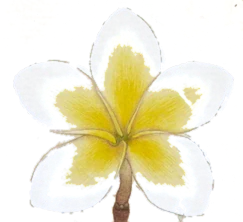
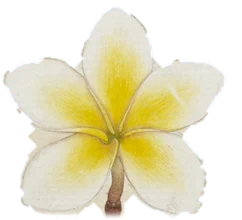
Fix hard crop lines in flower art; review every floral card by eye
- Corner flowers are now pre-rotated corner pieces: the painting's cut
  edge points diagonally out of the card corner, so no straight crop line
  can show (it showed at the top-left of the rose and peony cards)
- Any remaining side where a crop cuts through paint fades out softly
- Remove paper trapped between stems and leaves; remove aged-paper haze
  behind the peony
- Frangipani: keep white petals solid (fill inside the pencil outline)
  and trim the bare stem
- Corner flowers are drawn smaller on landscape cards so they stay clear
  of the full-width text

diff --git a/js/app.js b/js/app.js
@@ -42,20 +42,26 @@
   const PAT_OPACITY = { 1: 0.22, 2: 0.38, 3: 0.6 }; // độ đậm hoa nền: nhạt / vừa / đậm
 
   // Ảnh hoa thật đặt theo đơn vị cqmin (1% cạnh ngắn của thiệp)
-  function artImgs(list) {
-    return list.map((a) => {
+  // k: hệ số thu nhỏ (thiệp nằm ngang có chữ chạy hết bề ngang nên hoa ở góc vẽ nhỏ lại)
+  function artImgs(list, k = 1) {
+    return list.map((a0) => {
+      const a = { ...a0 };
+      ['w', 'h'].forEach((d) => { if (a[d] != null) a[d] = r2(a[d] * k); });
+      ['left', 'right', 'top', 'bottom'].forEach((d) => { if (a[d] != null && a[d] !== 0) a[d] = r2(a[d] * k); });
       const st = ['left', 'right', 'top', 'bottom'].filter((k) => a[k] != null).map((k) => `${k}:${a[k]}cqmin`);
       if (a.cx) st.push(`left:calc(50% - ${a.w / 2}cqmin)`);
       st.push(a.h ? `height:${a.h}cqmin` : `width:${a.w}cqmin`);
-      if (a.flip) st.push('transform:scaleX(-1)');
+      const tf = [a.rot ? `rotate(${a.rot}deg)` : '', a.flip ? 'scaleX(-1)' : ''].filter(Boolean).join(' ');
+      if (tf) st.push(`transform:${tf}`);
       return `<img src="art/${a.src}.webp" alt="" draggable="false" style="${st.join(';')}">`;
     }).join('');
   }
-  function bgArtHTML(kind, op) {
+  const landscapeK = (w, h) => (w && h && w / h > 1.2 ? 0.74 : 1);
+  function bgArtHTML(kind, op, w, h) {
     const art = BG_ART[kind];
     if (!art) return '';
     if (art === 'tile') return `<div class="bgart tile" style="opacity:${op}"></div>`;
-    return `<div class="bgart" style="opacity:${op}">${artImgs(art)}</div>`;
+    return `<div class="bgart" style="opacity:${op}">${artImgs(art, landscapeK(w, h))}</div>`;
   }
   const orderOf = (t) => t.order || FIELDS;
 
@@ -319,7 +325,7 @@
 
     const box = `viewBox="0 0 ${r2(w)} ${r2(h)}" width="${r2(w)}mm" height="${r2(h)}mm" preserveAspectRatio="none" aria-hidden="true"`;
     const m = Math.min(w, h);
-    const svg = (st.bgPat !== 'none' ? bgArtHTML(st.bgPat, PAT_OPACITY[st.bgLevel] || 0.32) : '') +
+    const svg = (st.bgPat !== 'none' ? bgArtHTML(st.bgPat, PAT_OPACITY[st.bgLevel] || 0.38, w, h) : '') +
       (deco ? `<svg class="deco" ${box}>${t.deco(w, h, m, th)}</svg>` : '') +
       (deco && t.art ? `<div class="art-over">${artImgs(t.art)}</div>` : '');
     const ct = contourMm(st, w, h);

diff --git a/js/templates.js b/js/templates.js
@@ -49,9 +49,10 @@
 
   /* Tranh hoa thật — trích từ tranh thực vật cổ (phạm vi công cộng), xem art/CREDITS.md.
    * Vị trí/kích thước tính theo cạnh ngắn của thiệp (1 = 1% cạnh ngắn); w = rộng, h = cao. */
+  // Hoa ở góc dùng ảnh đã xoay sẵn (rose-tl, rose-br...): chỗ cắt của tranh nằm đúng góc thiệp nên không lộ đường cắt
   const BG_ART = {
-    hong: [{ src: 'rose-heads', right: -18, bottom: -12, w: 82 }, { src: 'rose-heads', left: -9, top: -11, w: 50, flip: true }],
-    mau: [{ src: 'peony-head', right: -20, bottom: -10, w: 84 }, { src: 'peony-head', left: -8, top: -12, w: 52 }],
+    hong: [{ src: 'rose-br', right: 0, bottom: 0, w: 54 }, { src: 'rose-tl', left: 0, top: 0, w: 42 }],
+    mau: [{ src: 'peony-br', right: 0, bottom: 0, w: 56 }, { src: 'peony-tl', left: 0, top: 0, w: 46 }],
     sen: [{ src: 'lotus-top', right: -16, bottom: -9, w: 70 }],
     dao: [{ src: 'peach', right: 3, top: -6, h: 82 }, { src: 'peach', left: 4, bottom: -14, h: 56 }],
     nhi: 'tile',

diff --git a/sw.js b/sw.js
@@ -1,12 +1,12 @@
 /* Cho phép mở ứng dụng khi mất mạng.
  * Tệp của trang: lấy bản mới từ mạng trước, mất mạng thì dùng bản đã lưu.
  * Phông chữ Google: dùng bản đã lưu (không đổi). */
-const CACHE = 'thiepyen-v6';
+const CACHE = 'thiepyen-v7';
 const CORE = [
   './', 'index.html', 'css/style.css', 'js/ornaments.js', 'js/contour.js', 'js/templates.js', 'js/app.js',
   'manifest.webmanifest', 'icons/icon.svg', 'icons/icon-180.png', 'icons/icon-192.png',
   'vendor/html2canvas.min.js', 'vendor/jspdf.umd.min.js',
-  'art/rose-heads.webp', 'art/peony-head.webp', 'art/lotus-top.webp', 'art/lotus.webp', 'art/peach.webp',
+  'art/rose-tl.webp', 'art/rose-br.webp', 'art/peony-tl.webp', 'art/peony-br.webp', 'art/lotus-top.webp', 'art/lotus.webp', 'art/peach.webp',
   'art/tile-blossoms.webp', 'art/frangipani.webp', 'art/frangipani-r.webp',
 ];
 

diff --git a/tools/make_art.py b/tools/make_art.py
@@ -38,14 +38,14 @@ SOURCES = {
 
 # name: (source, crop box (x0, y0, x1, y1) in source pixels, longest output side, options)
 CROPS = {
-    'rose-heads': ('rose', (20, 50, 1330, 880), 1000, {}),
-    'rose-bud': ('rose', (20, 300, 470, 700), 420, {}),
-    'peony-head': ('peony', (380, 300, 1880, 1150), 950, {'tol': 46, 'holes': True, 'q': 82}),
-    'peony-bud': ('peony', (1360, 430, 1880, 1380), 520, {'tol': 46, 'holes': True, 'q': 82}),
+    'rose-heads': ('rose', (20, 50, 1330, 880), 1000, {'save': False, 'corners': {'rose-tl': ('tl', 800, True), 'rose-br': ('br', 900, False)}}),
+    'peony-head': ('peony', (380, 300, 1880, 1150), 950, {'tol': 46, 'floor': 0.17, 'q': 82, 'save': False,
+                   'corners': {'peony-tl': ('tl', 800, False), 'peony-br': ('br', 900, True)}}),
     'lotus': ('lotus', (60, 130, 1330, 1610), 900, {}),
     'lotus-top': ('lotus', (60, 130, 1330, 1010), 1000, {}),
     'peach': ('mume', (250, 560, 480, 1650), 900, {'kill_grey': True}),
-    'frangipani': ('frangi', (985, 2090, 1228, 2312), 600, {'tol': 30, 'rotated': -38}),
+    'frangipani': ('frangi', (978, 2092, 1235, 2400), 600, {'tol': 13, 'blur': 1.5, 'fill': 8, 'fill_to': 0.7, 'floor': 0.18, 'holes': False,
+                   'keep_top': 0.715, 'fade': 0.05, 'rotated': -38}),
     # single peach blossoms for the scattered ("hoa nhí") tile
     'b-pink1': ('mume', (290, 1085, 465, 1240), 260, {'kill_grey': True}),
     'b-pink2': ('mume', (270, 1390, 445, 1560), 260, {'kill_grey': True}),
@@ -73,25 +73,35 @@ def paper_colour(img):
     return np.median(border, axis=0)
 
 
-def cut_out(crop, paper, tol=20, kill_grey=False, holes=False):
+def cut_out(crop, paper, tol=20, kill_grey=False, holes=True, floor=0.08, blur=0, fill=0, fill_to=1.0):
     a = np.asarray(crop, dtype=np.float32)
     # colour-to-alpha against the paper colour (handles darker and lighter than paper)
     lo = np.where(a < paper, (paper - a) / np.maximum(paper, 1), 0)
     hi = np.where(a > paper, (a - paper) / np.maximum(255 - paper, 1), 0)
     c2a = np.clip(np.max(np.maximum(lo, hi), axis=2), 0, 1)
     # paper region = near-paper pixels connected to the crop border
-    near = np.linalg.norm(a - paper, axis=2) < tol
+    # blur first for white flowers on cream paper: smooths the paper grain so pale petals separate cleanly
+    ab = ndimage.gaussian_filter(a, (blur, blur, 0)) if blur else a
+    near = np.linalg.norm(ab - paper, axis=2) < tol
     lab, _ = ndimage.label(near)
     edge = np.unique(np.concatenate([lab[0], lab[-1], lab[:, 0], lab[:, -1]]))
     bg = np.isin(lab, edge[edge > 0])
     if holes:
-        # paper showing between branches is enclosed, so it never touches the border: drop big patches too
-        sizes = ndimage.sum(near, lab, index=np.arange(lab.max() + 1))
-        bg |= np.isin(lab, np.nonzero(sizes > near.size * 0.0015)[0][1:])
+        # paper showing between stems and leaves is enclosed, so it never touches the border: drop those patches too
+        # (stricter colour match than the outer paper, so pale petals are not mistaken for paper)
+        near2 = np.linalg.norm(a - paper, axis=2) < tol * 0.55
+        lab2, _ = ndimage.label(near2)
+        sizes = ndimage.sum(near2, lab2, index=np.arange(lab2.max() + 1))
+        bg |= np.isin(lab2, np.nonzero(sizes > max(60, near2.size * 0.0002))[0][1:])
     bg = ndimage.binary_opening(bg, iterations=1)
+    if fill:
+        # white petals on cream paper: the pencil outline encloses each petal, so fill everything inside it
+        fg = ndimage.binary_fill_holes(ndimage.binary_closing(~bg, iterations=fill))
+        fg[int(fg.shape[0] * fill_to):] = False  # only fill the petals, not the paper beside a stem below them
+        bg &= ~fg
     alpha = np.where(bg, c2a, 1.0)
     # remove paper grain / faint marks, keep soft edges
-    alpha = np.clip((alpha - 0.08) / 0.5, 0, 1)
+    alpha = np.clip((alpha - floor) / 0.5, 0, 1)
     if kill_grey:
         # drop the faint pencil sketches beside the painted sprig (low saturation, light)
         mx, mn = a.max(axis=2), a.min(axis=2)
@@ -115,6 +125,61 @@ def cut_out(crop, paper, tol=20, kill_grey=False, holes=False):
     return Image.fromarray(out, 'RGBA')
 
 
+def fade_cut_edges(img, frac=0.18, min_touch=0.02):
+    """Fade out any side where the crop cut through paint, so it never shows as a hard line."""
+    a = np.asarray(img).astype(np.float32)
+    al = a[..., 3] / 255
+    h, w = al.shape
+    sides = []
+    for side, edge in (('top', al[:2].max(0)), ('bottom', al[-2:].max(0)), ('left', al[:, :2].max(1)), ('right', al[:, -2:].max(1))):
+        if (edge > 0.35).mean() > min_touch:
+            sides.append(side)
+            n = max(4, int((h if side in ('top', 'bottom') else w) * frac))
+            t = np.linspace(0, 1, n)
+            ramp = t * t * (3 - 2 * t)  # smoothstep
+            if side == 'top':
+                al[:n] *= ramp[:, None]
+            elif side == 'bottom':
+                al[-n:] *= ramp[::-1][:, None]
+            elif side == 'left':
+                al[:, :n] *= ramp[None, :]
+            else:
+                al[:, -n:] *= ramp[::-1][None, :]
+    a[..., 3] = al * 255
+    return Image.fromarray(a.astype(np.uint8), 'RGBA'), sides
+
+
+def corner_piece(art, corner='tl', flip=False):
+    """Rotate a crop whose bottom edge is a cut, so that the cut points diagonally out of a card corner,
+    then crop it so the cut line passes exactly through that corner of the image.
+    Placed flush in the card corner, the cut is never visible: the art seems to grow out of the corner."""
+    if flip:
+        art = art.transpose(Image.FLIP_LEFT_RIGHT)
+    theta = -135 if corner == 'tl' else 45  # degrees, counter-clockwise as PIL.rotate
+    w, h = art.size
+    r = art.rotate(theta, expand=True, resample=Image.BICUBIC)
+    W, H = r.size
+    t = np.radians(theta)
+
+    def to_rot(x, y):
+        dx, dy = x - w / 2, y - h / 2
+        return (dx * np.cos(t) + dy * np.sin(t) + W / 2, -dx * np.sin(t) + dy * np.cos(t) + H / 2)
+
+    (x1, y1), (x2, y2) = to_rot(0, h), to_rot(w, h)
+    mx, my = (x1 + x2) / 2, (y1 + y2) / 2
+    if corner == 'tl':
+        out = r.crop((int(np.floor(mx)), int(np.floor(my)), W, H))
+    else:
+        out = r.crop((0, 0, int(np.ceil(mx)), int(np.ceil(my))))
+    bb = out.getbbox()
+    # keep the corner itself fixed; only trim transparent margin on the far sides
+    if corner == 'tl':
+        out = out.crop((0, 0, bb[2], bb[3]))
+    else:
+        out = out.crop((bb[0], bb[1], out.width, out.height))
+    return out
+
+
 def build():
     os.makedirs(OUT, exist_ok=True)
     srcs = {}
@@ -125,15 +190,33 @@ def build():
         img, _ = srcs[src]
         crop = img.crop(box)
         paper = paper_colour(crop)  # measure the paper next to this crop (plates are unevenly aged)
-        art = cut_out(crop, paper, tol=opt.get('tol', 20), kill_grey=opt.get('kill_grey', False), holes=opt.get('holes', False))
+        art = cut_out(crop, paper, tol=opt.get('tol', 20), kill_grey=opt.get('kill_grey', False),
+                      holes=opt.get('holes', True), floor=opt.get('floor', 0.08), blur=opt.get('blur', 0), fill=opt.get('fill', 0), fill_to=opt.get('fill_to', 1.0))
+        if 'keep_top' in opt:
+            # trim away what hangs below the flower (e.g. a bare stem) after the cut-out is done
+            art = art.crop((0, 0, art.width, round(art.height * opt['keep_top'])))
+            art = art.crop(art.getbbox())
+        for cname, (corner, size_c, flip) in opt.get('corners', {}).items():
+            c = corner_piece(art, corner, flip)
+            k2 = size_c / max(c.size)
+            if k2 < 1:
+                c = c.resize((round(c.width * k2), round(c.height * k2)), Image.LANCZOS)
+            c.save(os.path.join(OUT, cname + '.webp'), 'WEBP', quality=opt.get('q', 86), method=6)
+            print(f'{cname:12} {c.size}  {os.path.getsize(os.path.join(OUT, cname + ".webp")) // 1024} KB  corner {corner}')
+        cut = []
+        if not opt.get('keep_edges'):
+            art, cut = fade_cut_edges(art, frac=opt.get('fade', 0.18))
         k = size / max(art.size)
         if k < 1:
             art = art.resize((round(art.width * k), round(art.height * k)), Image.LANCZOS)
+        if opt.get('save', True) is False:  # only used to make the corner pieces
+            print(f'{name:12} (source for corners only)')
+            continue
         art.save(os.path.join(OUT, name + '.webp'), 'WEBP', quality=opt.get('q', 86), method=6)
         if opt.get('rotated'):
             r = art.rotate(opt['rotated'], expand=True, resample=Image.BICUBIC)
             r.crop(r.getbbox()).save(os.path.join(OUT, name + '-r.webp'), 'WEBP', quality=86, method=6)
-        print(f'{name:12} {art.size}  {os.path.getsize(os.path.join(OUT, name + ".webp")) // 1024} KB')
+        print(f'{name:12} {art.size}  {os.path.getsize(os.path.join(OUT, name + ".webp")) // 1024} KB  faded: {",".join(cut) or "-"}')
     build_tile()
 
 

diff --git a/art/CREDITS.md b/art/CREDITS.md
@@ -6,8 +6,8 @@ Wikimedia Commons. `tools/make_art.py` rebuilds every file from the original sca
 
 | File | Source | Artist |
 | --- | --- | --- |
-| `rose-heads.webp`, `rose-bud.webp` | [Rosa centifolia foliacea](https://commons.wikimedia.org/wiki/File:Redoute_-_Rosa_centifolia_foliacea.jpg), *Les Roses* (1817–1824) | Pierre-Joseph Redouté |
-| `peony-head.webp`, `peony-bud.webp` | [Paeonia suffruticosa](https://commons.wikimedia.org/wiki/File:Description_des_plantes_rares_cultivees_a_Malmaison_et_a_Navarre_(Paeonia_suffruticosa_subsp._suffruticosa)_BHL275853.jpg), *Plantes rares cultivées à Malmaison* (1812–1817) | Pierre-Joseph Redouté |
+| `rose-tl.webp`, `rose-br.webp` | [Rosa centifolia foliacea](https://commons.wikimedia.org/wiki/File:Redoute_-_Rosa_centifolia_foliacea.jpg), *Les Roses* (1817–1824) | Pierre-Joseph Redouté |
+| `peony-tl.webp`, `peony-br.webp` | [Paeonia suffruticosa](https://commons.wikimedia.org/wiki/File:Description_des_plantes_rares_cultivees_a_Malmaison_et_a_Navarre_(Paeonia_suffruticosa_subsp._suffruticosa)_BHL275853.jpg), *Plantes rares cultivées à Malmaison* (1812–1817) | Pierre-Joseph Redouté |
 | `lotus.webp`, `lotus-top.webp` | [Nelumbo nucifera](https://commons.wikimedia.org/wiki/File:Nelumbo_nucifera_Blanco1.158.png), *Flora de Filipinas* (1880–1883) | Francisco Manuel Blanco |
 | `peach.webp`, `b-pink*.webp`, `tile-blossoms.webp` | [Prunus mume](https://commons.wikimedia.org/wiki/File:Prunus_mume_SZ11.png), *Flora Japonica* (1835–1870) | Philipp Franz von Siebold & Joseph Gerhard Zuccarini |
 | `frangipani.webp`, `frangipani-r.webp` | [Plumeria acutifolia](https://commons.wikimedia.org/wiki/File:Frangipani_-_Unknown_-_19_1927_2_69.jpg), Company-school watercolour | Unknown artist |
